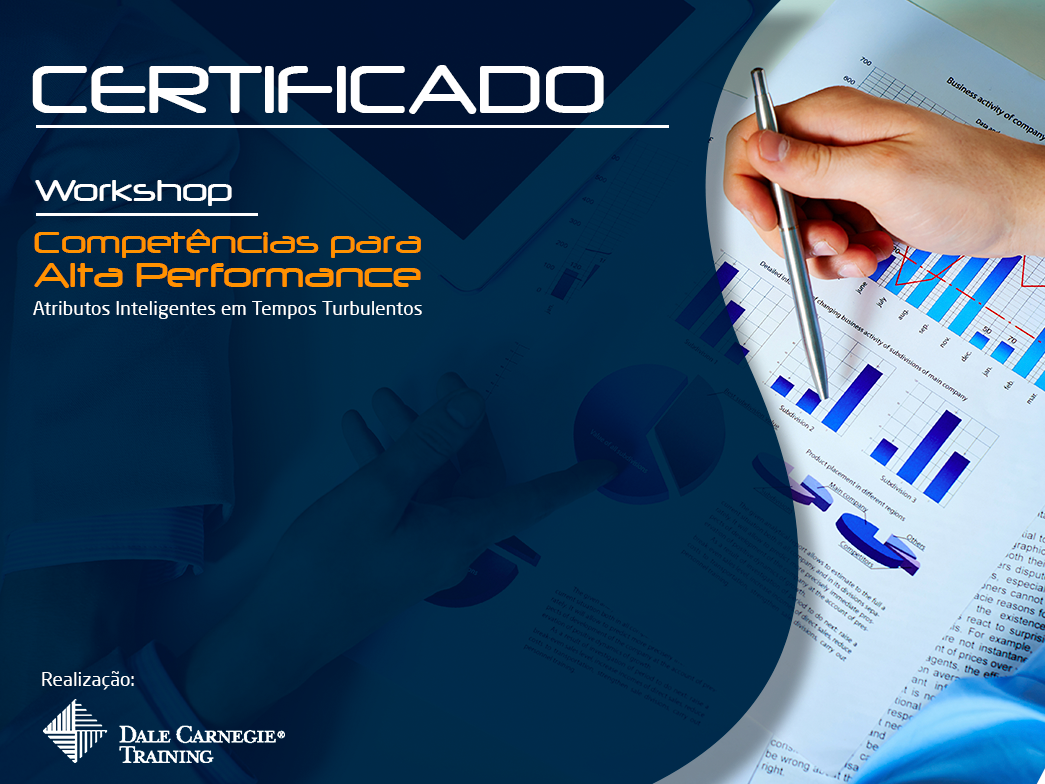
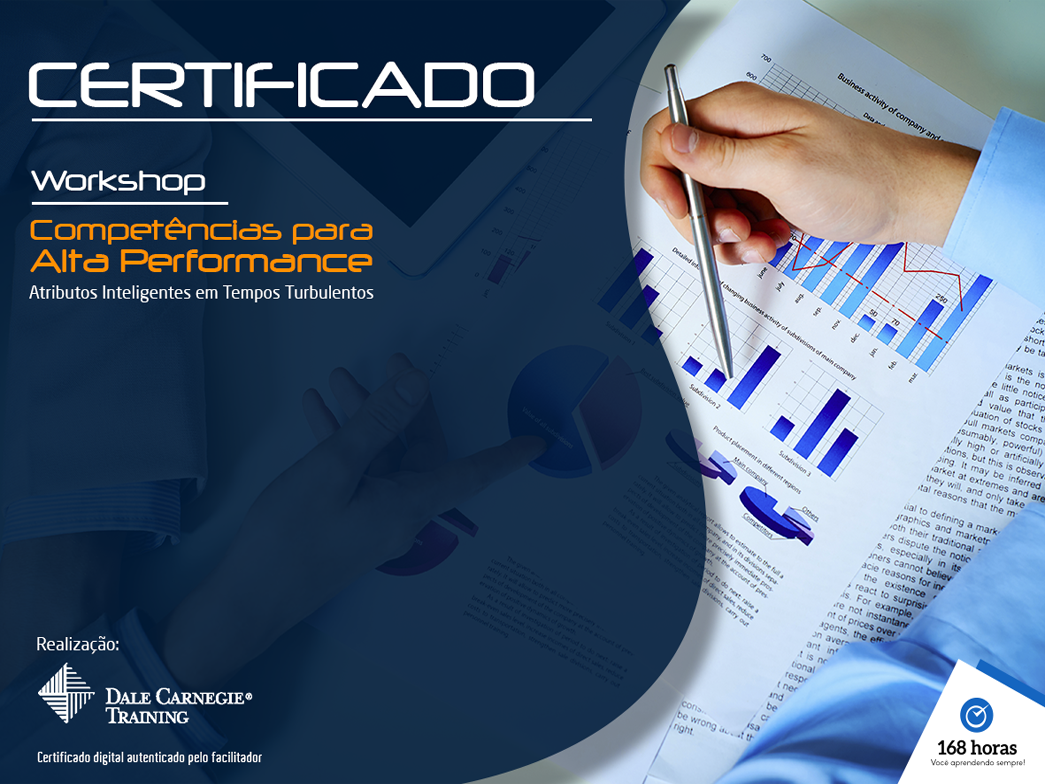
Add a temp background

diff --git a/attendee/templates/attendee/certificates/workshop-competencias-para-alta-performance.html b/attendee/templates/attendee/certificates/workshop-competencias-para-alta-performance.html
@@ -13,7 +13,6 @@
     <style>
       @page {
         size: 297mm 223mm;
-        /*background-image: url('{% static 'attendee/img/workshop-competencias-para-alta-performance.png' %}');*/
         background-image: url('{% static 'attendee/img/workshop-competencias-para-alta-performance.png' %}');
       }
 
@@ -23,7 +22,7 @@
 
       div {
         position: fixed;
-        padding-top: 290pt;
+        padding-top: 280pt;
         padding-left: 25pt;
       }
 
